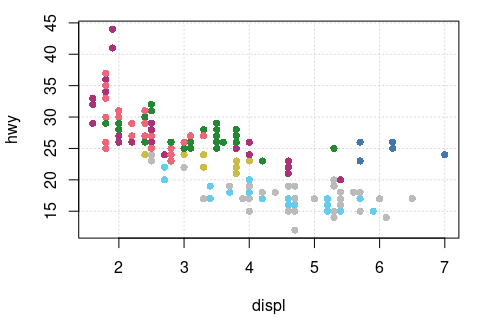
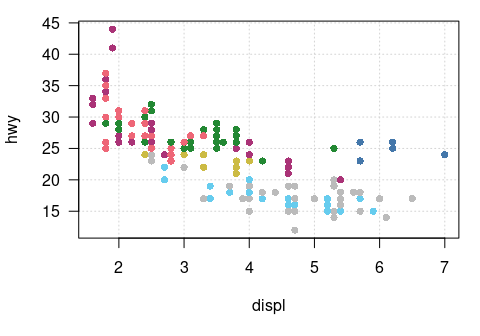
Prepare for next release

diff --git a/README.md b/README.md
@@ -8,7 +8,7 @@
 [![R-CMD-check](https://github.com/tesselle/khroma/workflows/R-CMD-check/badge.svg)](https://github.com/tesselle/khroma/actions)
 [![codecov](https://codecov.io/gh/tesselle/khroma/branch/main/graph/badge.svg)](https://app.codecov.io/gh/tesselle/khroma)
 [![CodeFactor](https://www.codefactor.io/repository/github/tesselle/khroma/badge/main)](https://www.codefactor.io/repository/github/tesselle/khroma/overview/main)
-[![Dependencies](https://tinyverse.netlify.com/badge/khroma)](https://cran.r-project.org/package=khroma)
+[![Dependencies](https://tinyverse.netlify.app/badge/khroma)](https://cran.r-project.org/package=khroma)
 
 <a href="https://tesselle.r-universe.dev/khroma"
 class="pkgdown-devel"><img
@@ -70,28 +70,17 @@ All these color schemes are implemented for use with base R **graphics**
 or [**ggplot2**](https://github.com/tidyverse/ggplot2) and
 [**ggraph**](https://github.com/thomasp85/ggraph).
 
-    To cite khroma in publications use:
+------------------------------------------------------------------------
 
-      Frerebeau N (2024). _khroma: Colour Schemes for Scientific Data
-      Visualization_. Université Bordeaux Montaigne, Pessac, France.
-      doi:10.5281/zenodo.1472077 <https://doi.org/10.5281/zenodo.1472077>,
-      R package version 1.12.0, <https://packages.tesselle.org/khroma/>.
+To cite khroma in publications use:
 
-    A BibTeX entry for LaTeX users is
+Frerebeau N (2024). *khroma: Colour Schemes for Scientific Data
+Visualization*. Université Bordeaux Montaigne, Pessac, France.
+<doi:10.5281/zenodo.1472077> <https://doi.org/10.5281/zenodo.1472077>, R
+package version 1.13.0, <https://packages.tesselle.org/khroma/>.
 
-      @Manual{,
-        author = {Nicolas Frerebeau},
-        title = {{khroma: Colour Schemes for Scientific Data Visualization}},
-        year = {2024},
-        organization = {Université Bordeaux Montaigne},
-        address = {Pessac, France},
-        note = {R package version 1.12.0},
-        doi = {10.5281/zenodo.1472077},
-        url = {https://packages.tesselle.org/khroma/},
-      }
-
-    This package is a part of the tesselle project
-    <https://www.tesselle.org>.
+This package is a part of the tesselle project
+<https://www.tesselle.org>.
 
 ## Installation
 
@@ -191,21 +180,20 @@ info()
 
 ### Color palettes and scales
 
-`color()` returns a palette function that when called with a single
-integer argument returns a vector of colors.
+`color()` returns a function that when called with a single integer
+argument returns a vector of colors.
 
 ``` r
 ## Paul Tol's bright color scheme
 bright <- color("bright")
 bright(7)
-#>      blue       red     green    yellow      cyan    purple      grey 
-#> "#4477AA" "#EE6677" "#228833" "#CCBB44" "#66CCEE" "#AA3377" "#BBBBBB" 
+#> [1] "#4477AA" "#EE6677" "#228833" "#CCBB44" "#66CCEE" "#AA3377" "#BBBBBB"
 #> attr(,"missing")
 #> [1] NA
 ```
 
 ``` r
-## Show the color palette
+## Plot the color scheme
 plot_scheme(bright(7), colours = TRUE)
 ```
 
@@ -220,10 +208,11 @@ plot(
   x = mpg$displ,
   y = mpg$hwy,
   pch = 16,
-  col = color("bright")(7)[as.factor(mpg$class)],
+  col = palette_color_picker("bright")(mpg$class),
   xlab = "displ",
   ylab = "hwy",
-  panel.first = grid()
+  panel.first = grid(),
+  las = 1
 )
 ```
 
@@ -290,7 +279,8 @@ to this project, you agree to abide by its terms.
 
 ## References
 
-<div id="refs" class="references csl-bib-body hanging-indent">
+<div id="refs" class="references csl-bib-body hanging-indent"
+entry-spacing="0">
 
 <div id="ref-crameri2018" class="csl-entry">
 

diff --git a/revdep/README.md b/revdep/README.md
@@ -1,24 +1,24 @@
 # Platform
 
-|field    |value                                    |
-|:--------|:----------------------------------------|
-|version  |R version 4.3.2 (2023-10-31)             |
-|os       |Ubuntu 22.04.3 LTS                       |
-|system   |x86_64, linux-gnu                        |
-|ui       |RStudio                                  |
-|language |(EN)                                     |
-|collate  |fr_FR.UTF-8                              |
-|ctype    |fr_FR.UTF-8                              |
-|tz       |Europe/Paris                             |
-|date     |2023-12-19                               |
-|rstudio  |2023.09.0+463 Desert Sunflower (desktop) |
-|pandoc   |NA                                       |
+|field    |value                                                                                |
+|:--------|:------------------------------------------------------------------------------------|
+|version  |R version 4.4.1 (2024-06-14)                                                         |
+|os       |Ubuntu 22.04.4 LTS                                                                   |
+|system   |x86_64, linux-gnu                                                                    |
+|ui       |RStudio                                                                              |
+|language |(EN)                                                                                 |
+|collate  |fr_FR.UTF-8                                                                          |
+|ctype    |fr_FR.UTF-8                                                                          |
+|tz       |Europe/Paris                                                                         |
+|date     |2024-06-30                                                                           |
+|rstudio  |2024.04.2+764 Chocolate Cosmos (desktop)                                             |
+|pandoc   |3.1.11 @ /usr/lib/rstudio/resources/app/bin/quarto/bin/tools/x86_64/ (via rmarkdown) |
 
 # Dependencies
 
 |package |old    |new    |Δ  |
 |:-------|:------|:------|:--|
-|khroma  |1.11.0 |1.12.0 |*  |
+|khroma  |1.12.0 |1.13.0 |*  |
 
 # Revdeps
 

diff --git a/NEWS.md b/NEWS.md
@@ -1,4 +1,4 @@
-# khroma 1.12.0.9000
+# khroma 1.13.0
 ## New functions
 * Add `palette_color_picker()`, `palette_color_continuous()` and  `palette_color_discrete()` to map values to colors.
 * Add `palette_shape()` and `palette_line()` to map values to symbols.
@@ -17,7 +17,7 @@
 * Add Paul Tol `nightfall` and `incandescent` colour schemes.
 
 ## Bugfixes & changes
-*  Fix `discreterainbow` scheme (qualitative scheme instead of sequential).
+*  Fix `discreterainbow` scheme (*qualitative* scheme instead of *sequential*).
 
 # khroma 1.11.0
 ## Bugfixes & changes

diff --git a/cran-comments.md b/cran-comments.md
@@ -1,5 +1,5 @@
 ## Test environments
-* Local R installation: R 4.3.2
+* Local R installation: R 4.4.1
 * Ubuntu (on GitHub Actions): R devel, release, oldrel
 * Windows (on GitHub Actions and win-builder): R devel, release, oldrel
 * MacOS (on GitHub Actions): R release
